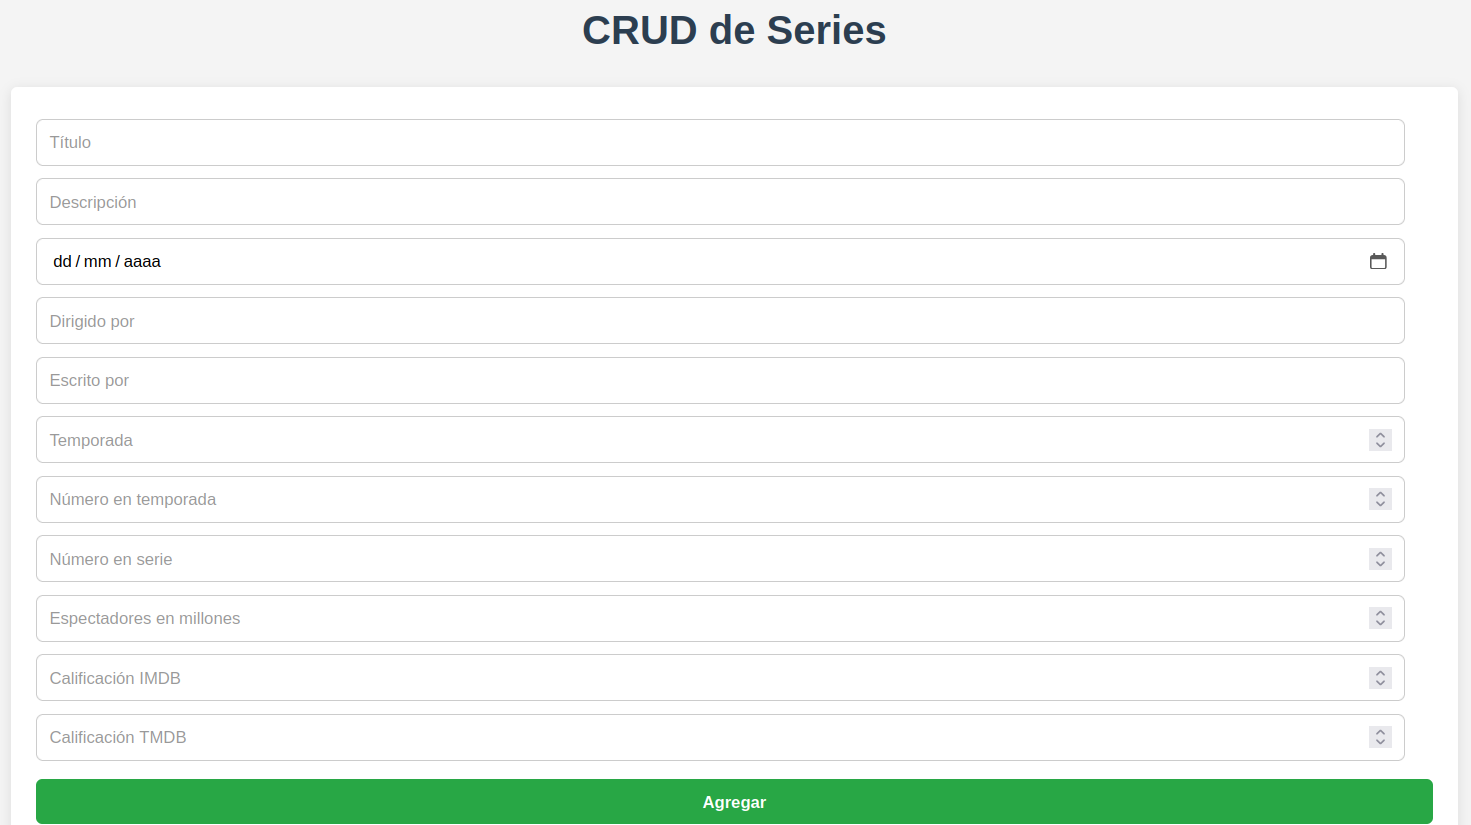
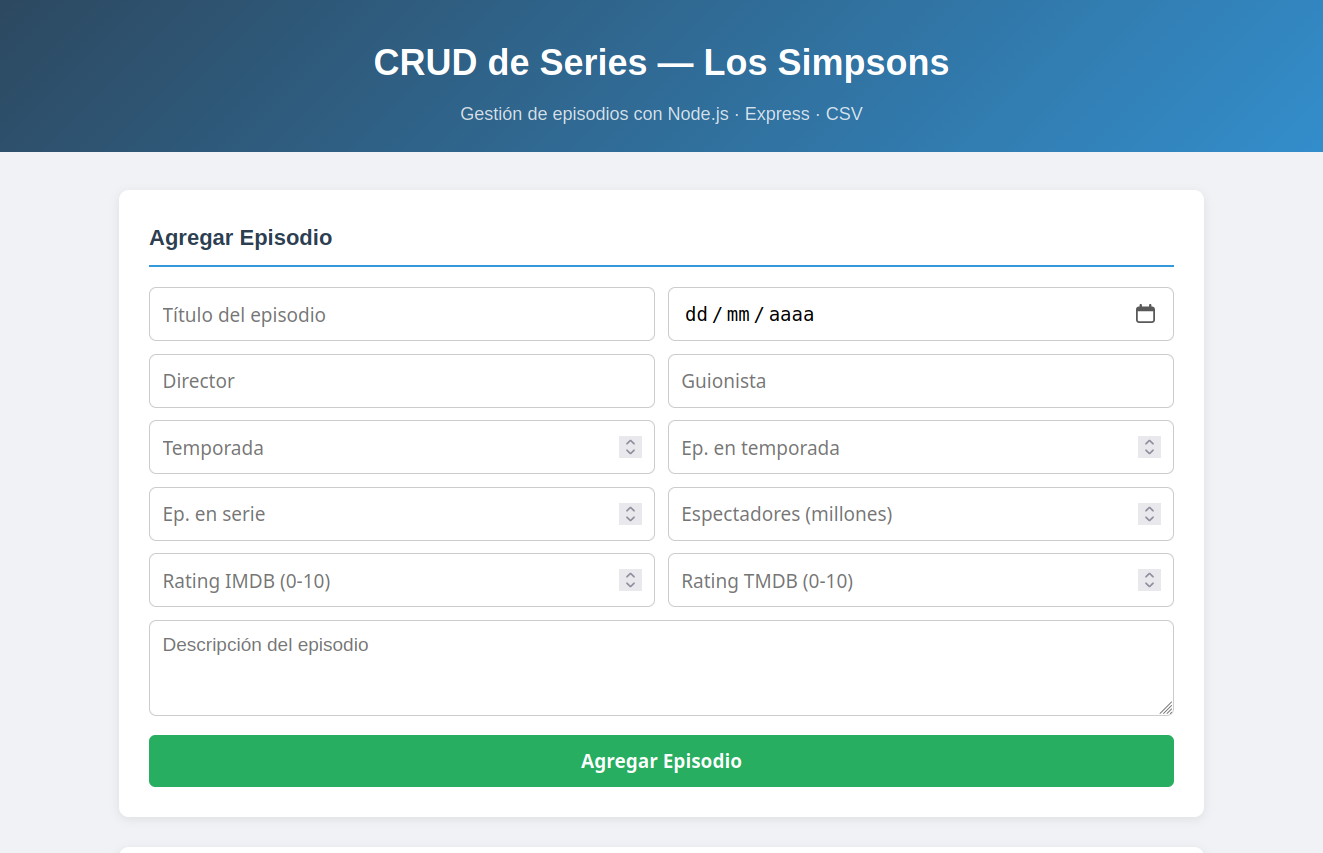
Agrega featured card, line-clamp y mejoras visuales al portfolio
- Card de Gestión Educativa como destacada: layout horizontal en desktop,
  badge Destacado, imagen izquierda 42%, contenido alineado a la izquierda
- line-clamp-2 en descripciones de las 5 cards restantes
- Gap de galería aumentado de 20px a 24px
- Elimina img/hero.png (sin uso)

diff --git a/index.html b/index.html
@@ -316,27 +316,32 @@
                 <button class="filtro" data-filter="nodejs">Node.js</button>
             </div>
             <div class="galeria">
-                <!-- Card: Gestión Educativa -->
-                <div class="proyecto fade-in" data-tech="react javascript nodejs">
-                    <div class="group overflow-hidden rounded-xl border border-gray-700/50 bg-[#1a2025] hover:border-teal-500/60 transition-all duration-300 hover:-translate-y-2 hover:shadow-xl hover:shadow-teal-500/10">
-                        <div class="overflow-hidden">
+                <!-- Card: Gestión Educativa (DESTACADA) -->
+                <div class="proyecto featured fade-in" data-tech="react javascript nodejs">
+                    <div class="group overflow-hidden rounded-xl border border-gray-700/50 bg-[#1a2025] hover:border-teal-500/60 transition-all duration-300 hover:-translate-y-1 hover:shadow-xl hover:shadow-teal-500/10 flex flex-col md:flex-row">
+                        <div class="relative overflow-hidden md:w-5/12 shrink-0">
+                            <span class="absolute top-3 left-3 z-10 flex items-center gap-1.5 text-xs font-bold px-2.5 py-1 rounded-full bg-[#1CB698] text-[#1e2326]">
+                                ★ Destacado
+                            </span>
                             <img src="img/educativa.png" alt="Sistema de Gestión Educativa" loading="lazy"
-                                 class="w-full h-48 object-cover transition-transform duration-500 group-hover:scale-105">
+                                 class="w-full h-56 md:h-full object-cover transition-transform duration-500 group-hover:scale-105">
                         </div>
-                        <div class="p-5 text-center">
-                            <h3 class="text-base font-semibold tracking-wide mb-2" style="color:#1CB698">Gestión Educativa</h3>
-                            <p class="text-sm leading-relaxed mb-4" style="color:#aaa">Sistema fullstack para institutos de formación superior: JWT con roles diferenciados, dashboard de riesgo académico por comisión y materia, exportación CSV y 27 tests de integración.</p>
-                            <div class="flex flex-wrap justify-center gap-2 mb-4">
+                        <div class="p-6 md:p-8 text-center md:text-left flex flex-col justify-center grow">
+                            <h3 class="text-xl font-semibold tracking-wide mb-2" style="color:#1CB698">Gestión Educativa</h3>
+                            <p class="text-sm leading-relaxed mb-5" style="color:#aaa">Sistema fullstack para institutos de formación superior: JWT con roles diferenciados, dashboard de riesgo académico por comisión y materia, exportación CSV y 27 tests de integración.</p>
+                            <div class="flex flex-wrap justify-center md:justify-start gap-2 mb-5">
                                 <span class="text-xs font-medium px-3 py-1 rounded-full border" style="background:rgba(28,182,152,.1);color:#1CB698;border-color:rgba(28,182,152,.35)">React</span>
                                 <span class="text-xs font-medium px-3 py-1 rounded-full border" style="background:rgba(28,182,152,.1);color:#1CB698;border-color:rgba(28,182,152,.35)">Node.js</span>
                                 <span class="text-xs font-medium px-3 py-1 rounded-full border" style="background:rgba(28,182,152,.1);color:#1CB698;border-color:rgba(28,182,152,.35)">JWT</span>
                                 <span class="text-xs font-medium px-3 py-1 rounded-full border" style="background:rgba(28,182,152,.1);color:#1CB698;border-color:rgba(28,182,152,.35)">SQLite</span>
                                 <span class="text-xs font-medium px-3 py-1 rounded-full border" style="background:rgba(28,182,152,.1);color:#1CB698;border-color:rgba(28,182,152,.35)">Vitest</span>
                             </div>
-                            <a href="https://github.com/gogoroisler/gestion-educativa-react" target="_blank" rel="noopener noreferrer"
-                               class="inline-block border border-white/30 text-white text-sm px-5 py-2 rounded transition-all duration-300 hover:bg-[#1CB698] hover:border-[#1CB698]">
-                                Ver repositorio
-                            </a>
+                            <div class="flex justify-center md:justify-start">
+                                <a href="https://github.com/gogoroisler/gestion-educativa-react" target="_blank" rel="noopener noreferrer"
+                                   class="inline-block border border-white/30 text-white text-sm px-5 py-2 rounded transition-all duration-300 hover:bg-[#1CB698] hover:border-[#1CB698]">
+                                    Ver repositorio
+                                </a>
+                            </div>
                         </div>
                     </div>
                 </div>
@@ -350,7 +355,7 @@
                         </div>
                         <div class="p-5 text-center">
                             <h3 class="text-base font-semibold tracking-wide mb-2" style="color:#1CB698">Gestión de Consorcios</h3>
-                            <p class="text-sm leading-relaxed mb-4" style="color:#aaa">Sistema web para la gestión integral de consorcios: departamentos, expensas, reclamos y avisos, con roles diferenciados para administradores y consorcistas.</p>
+                            <p class="text-sm leading-relaxed mb-4 line-clamp-2" style="color:#aaa">Sistema web para la gestión integral de consorcios: departamentos, expensas, reclamos y avisos, con roles diferenciados para administradores y consorcistas.</p>
                             <div class="flex flex-wrap justify-center gap-2 mb-4">
                                 <span class="text-xs font-medium px-3 py-1 rounded-full border" style="background:rgba(28,182,152,.1);color:#1CB698;border-color:rgba(28,182,152,.35)">Python</span>
                                 <span class="text-xs font-medium px-3 py-1 rounded-full border" style="background:rgba(28,182,152,.1);color:#1CB698;border-color:rgba(28,182,152,.35)">Django</span>
@@ -374,7 +379,7 @@
                         </div>
                         <div class="p-5 text-center">
                             <h3 class="text-base font-semibold tracking-wide mb-2" style="color:#1CB698">Obras Públicas CABA</h3>
-                            <p class="text-sm leading-relaxed mb-4" style="color:#aaa">Software en Python para gestionar obras urbanas de Buenos Aires usando un dataset público del gobierno de la ciudad, con POO y persistencia ORM.</p>
+                            <p class="text-sm leading-relaxed mb-4 line-clamp-2" style="color:#aaa">Software en Python para gestionar obras urbanas de Buenos Aires usando un dataset público del gobierno de la ciudad, con POO y persistencia ORM.</p>
                             <div class="flex flex-wrap justify-center gap-2 mb-4">
                                 <span class="text-xs font-medium px-3 py-1 rounded-full border" style="background:rgba(28,182,152,.1);color:#1CB698;border-color:rgba(28,182,152,.35)">Python</span>
                                 <span class="text-xs font-medium px-3 py-1 rounded-full border" style="background:rgba(28,182,152,.1);color:#1CB698;border-color:rgba(28,182,152,.35)">POO</span>
@@ -401,7 +406,7 @@
                         </div>
                         <div class="p-5 text-center">
                             <h3 class="text-base font-semibold tracking-wide mb-2" style="color:#1CB698">Calculadora Web</h3>
-                            <p class="text-sm leading-relaxed mb-4" style="color:#aaa">Calculadora con historial de operaciones, exportación a CSV y formato numérico contable argentino. Desarrollada con ES Modules nativos, localStorage y soporte completo de teclado.</p>
+                            <p class="text-sm leading-relaxed mb-4 line-clamp-2" style="color:#aaa">Calculadora con historial de operaciones, exportación a CSV y formato numérico contable argentino. Desarrollada con ES Modules nativos, localStorage y soporte completo de teclado.</p>
                             <div class="flex flex-wrap justify-center gap-2 mb-4">
                                 <span class="text-xs font-medium px-3 py-1 rounded-full border" style="background:rgba(28,182,152,.1);color:#1CB698;border-color:rgba(28,182,152,.35)">JavaScript</span>
                                 <span class="text-xs font-medium px-3 py-1 rounded-full border" style="background:rgba(28,182,152,.1);color:#1CB698;border-color:rgba(28,182,152,.35)">ES Modules</span>
@@ -431,7 +436,7 @@
                         </div>
                         <div class="p-5 text-center">
                             <h3 class="text-base font-semibold tracking-wide mb-2" style="color:#1CB698">CRUD Los Simpsons</h3>
-                            <p class="text-sm leading-relaxed mb-4" style="color:#aaa">CRUD fullstack de 674 episodios con búsqueda server-side, paginación, validación en cliente y servidor, logging con Morgan y 36 tests (Vitest + Supertest).</p>
+                            <p class="text-sm leading-relaxed mb-4 line-clamp-2" style="color:#aaa">CRUD fullstack de 674 episodios con búsqueda server-side, paginación, validación en cliente y servidor, logging con Morgan y 36 tests (Vitest + Supertest).</p>
                             <div class="flex flex-wrap justify-center gap-2 mb-4">
                                 <span class="text-xs font-medium px-3 py-1 rounded-full border" style="background:rgba(28,182,152,.1);color:#1CB698;border-color:rgba(28,182,152,.35)">Node.js</span>
                                 <span class="text-xs font-medium px-3 py-1 rounded-full border" style="background:rgba(28,182,152,.1);color:#1CB698;border-color:rgba(28,182,152,.35)">Express</span>
@@ -459,7 +464,7 @@
                         </div>
                         <div class="p-5 text-center">
                             <h3 class="text-base font-semibold tracking-wide mb-2" style="color:#1CB698">App Clima</h3>
-                            <p class="text-sm leading-relaxed mb-4" style="color:#aaa">Clima en tiempo real con geolocalización automática, toggle °C/°F, íconos SVG animados por condición y hora, y 33 tests para funciones puras. Diseño glassmorphism responsive.</p>
+                            <p class="text-sm leading-relaxed mb-4 line-clamp-2" style="color:#aaa">Clima en tiempo real con geolocalización automática, toggle °C/°F, íconos SVG animados por condición y hora, y 33 tests para funciones puras. Diseño glassmorphism responsive.</p>
                             <div class="flex flex-wrap justify-center gap-2 mb-4">
                                 <span class="text-xs font-medium px-3 py-1 rounded-full border" style="background:rgba(28,182,152,.1);color:#1CB698;border-color:rgba(28,182,152,.35)">JavaScript</span>
                                 <span class="text-xs font-medium px-3 py-1 rounded-full border" style="background:rgba(28,182,152,.1);color:#1CB698;border-color:rgba(28,182,152,.35)">OpenWeather API</span>

diff --git a/styles.css b/styles.css
@@ -627,13 +627,19 @@ html{
     display: flex;
     flex-wrap: wrap;
     justify-content: center;
-    gap: 20px;
+    gap: 24px;
 }
 
 .proyecto{
     max-width: 340px;
     margin: 10px;
     transition: opacity .3s ease;
+}
+
+.proyecto.featured{
+    max-width: 100%;
+    width: 100%;
+    margin: 0 0 8px 0;
 }
 
 /*CONTACTO*/
